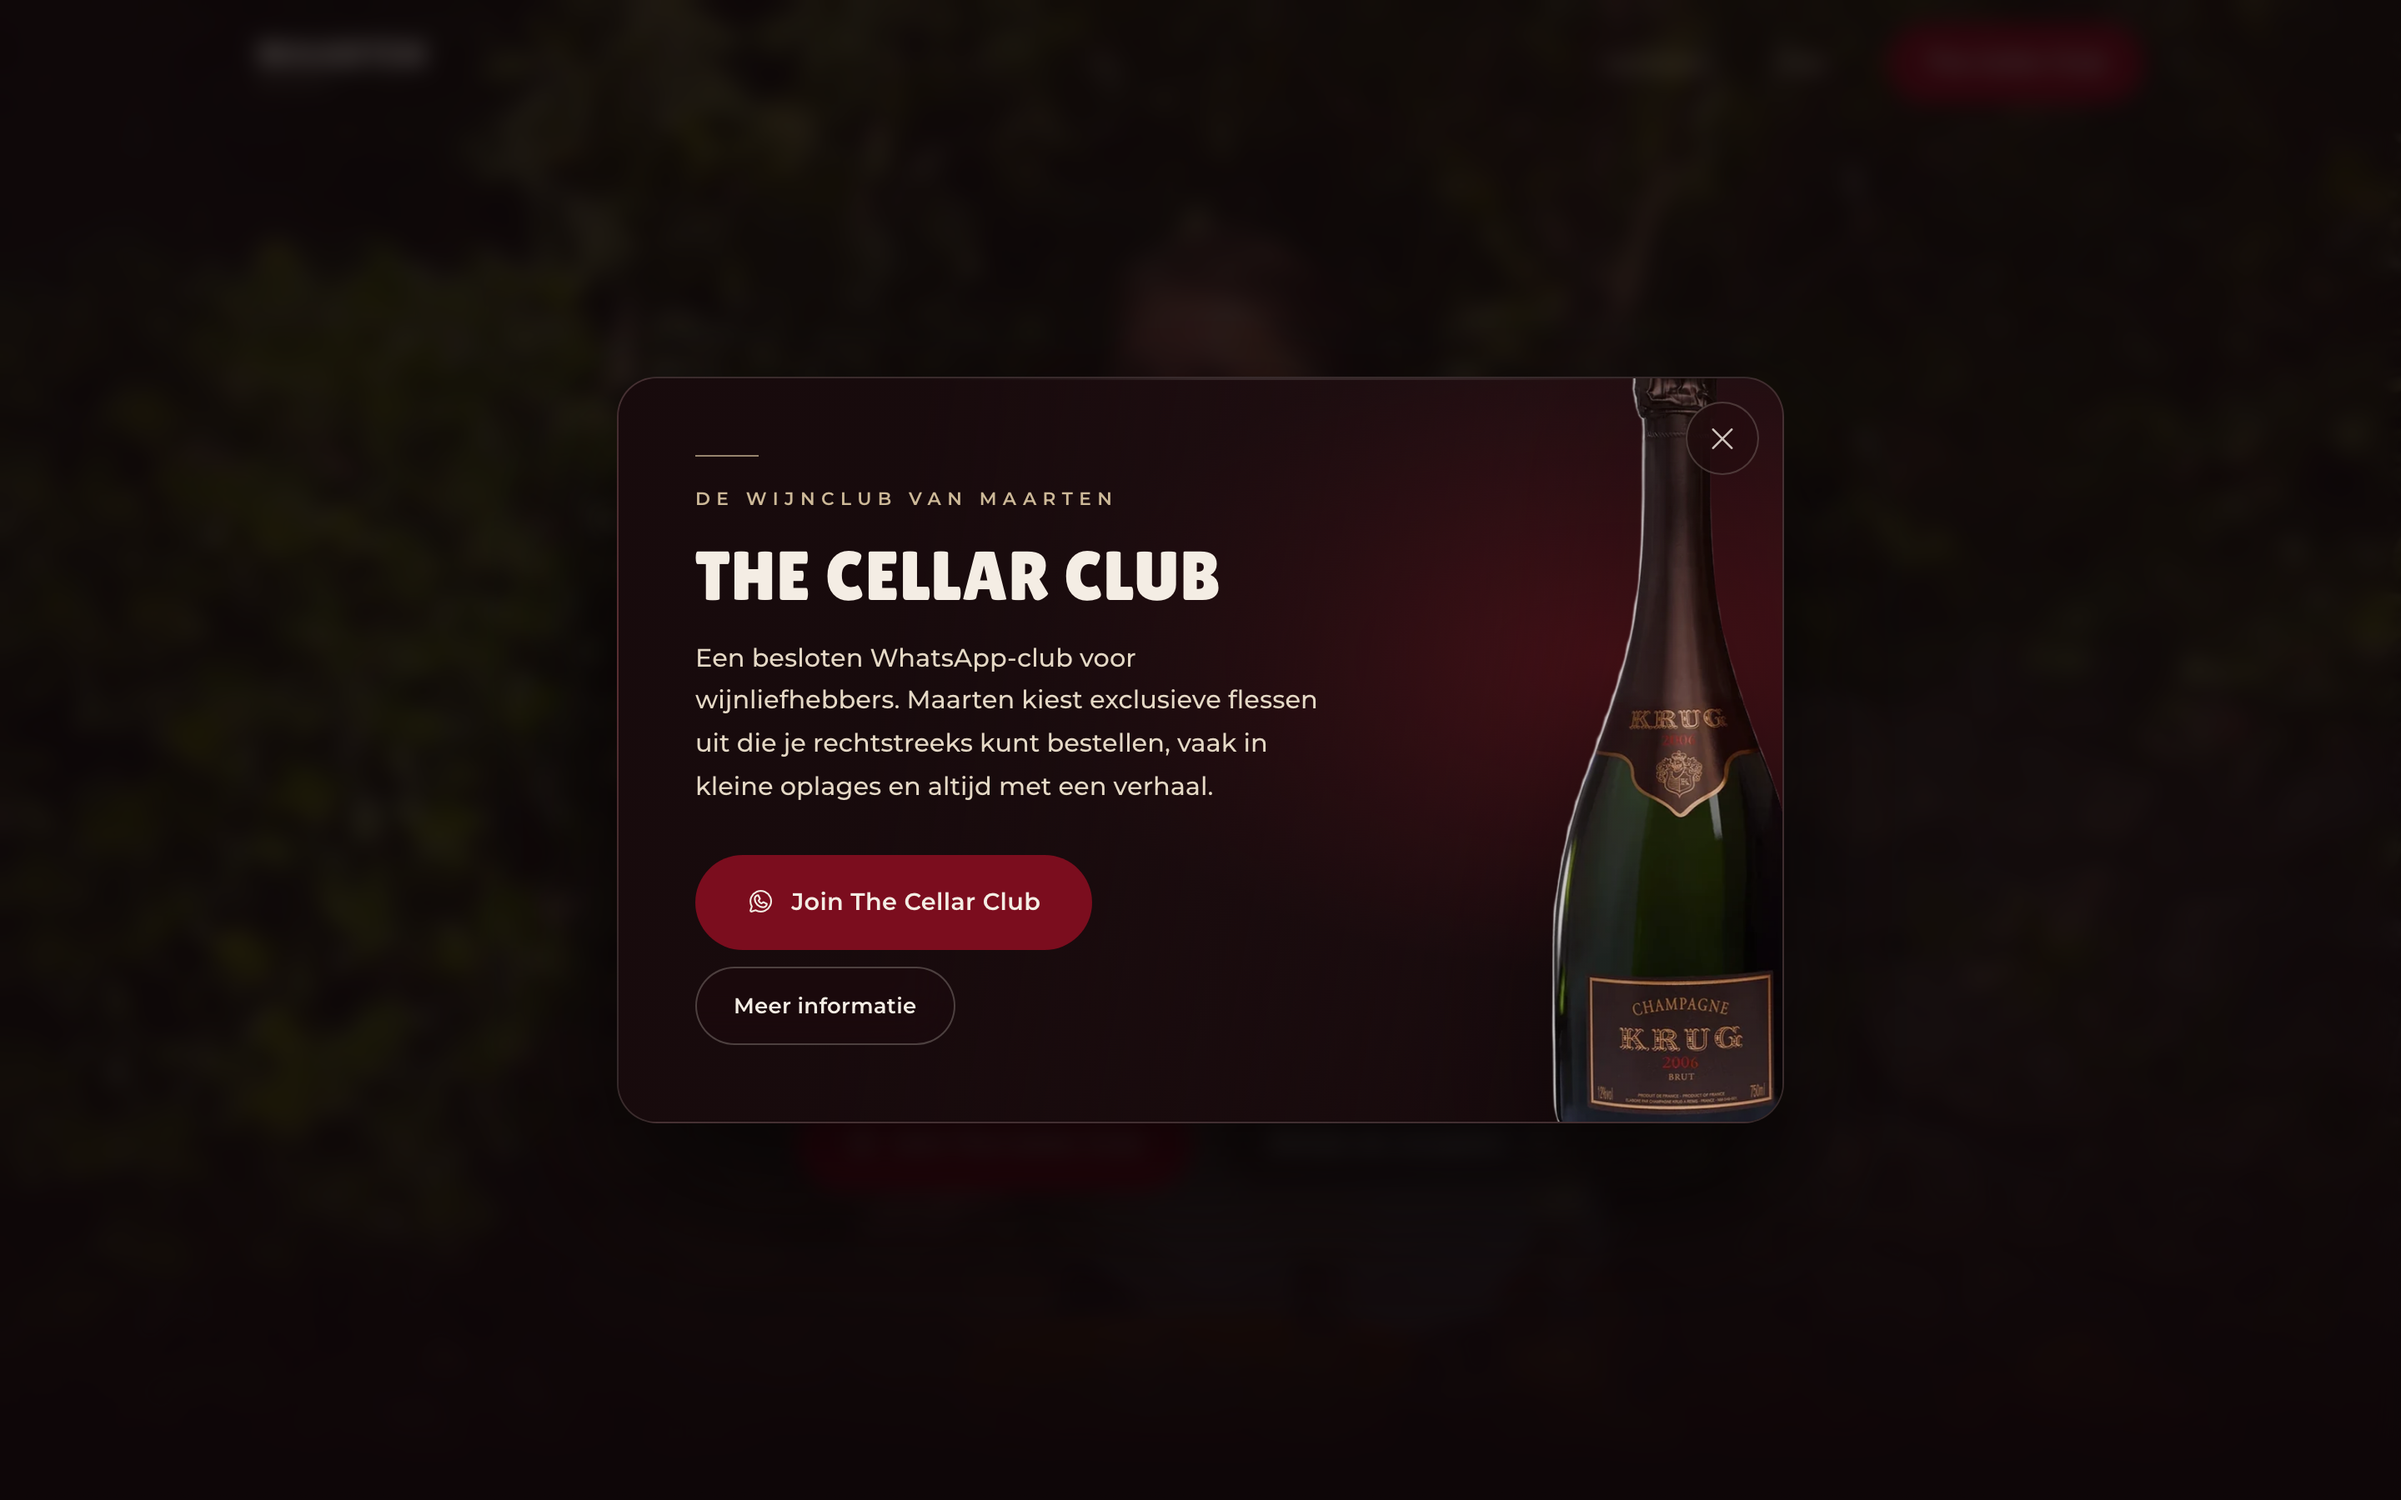
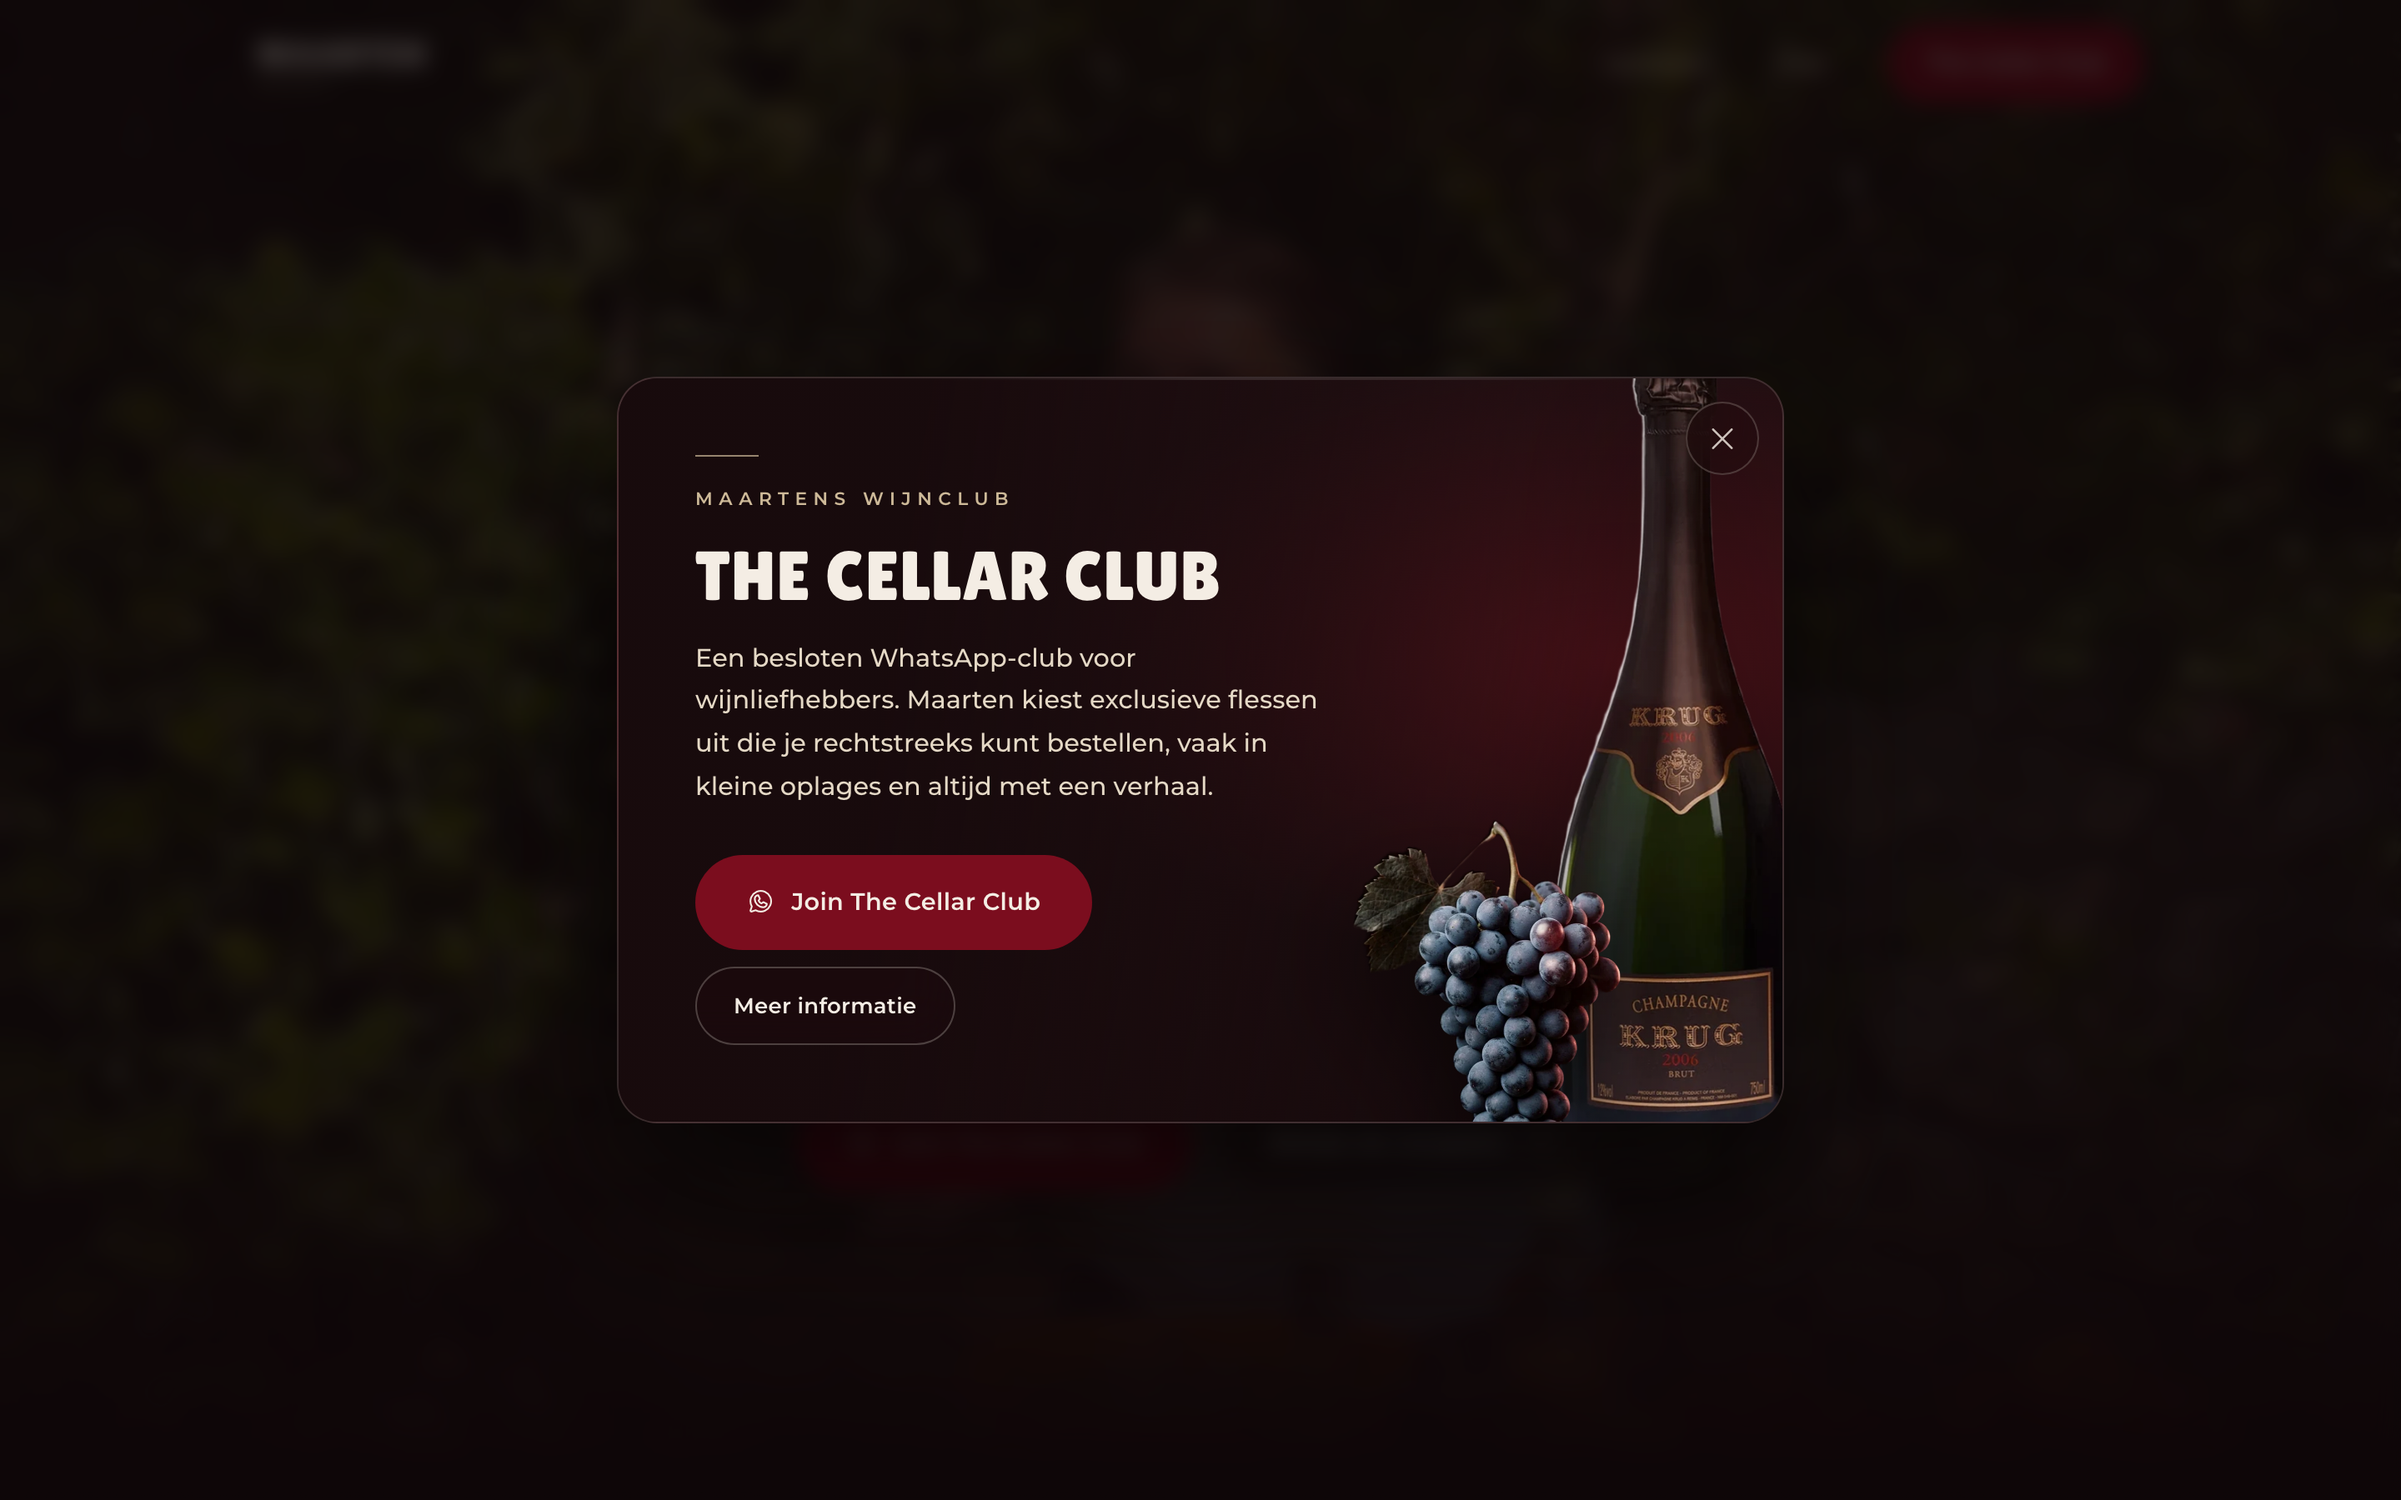
Druiventros in de pop-up, gemaakt in de light-painting-stijl van het merk
De bestaande druiven in het thema zijn stills uit Maartens video: mat en vlak,
te weinig voor dit paneel. Nieuwe tros met Higgsfield (nano_banana_pro, 3:4)
in dezelfde donkere light-painting-stijl als de rest van het merkbeeld:
blauw-paars met bloom, een rode druif als accent, bordeaux zijlicht op zwart.
Uitgesneden via remove_background, alpha getrimd, 800px webp van 68 KB.

Staat naast de fles en niet eroverheen, zodat het Krug-etiket vrij blijft:
fles achter, tros ervoor aan de voet. Zelfde bottle-float-animatie met een
eigen fase, dus ze bewegen niet synchroon. Onder 640px verborgen — fles plus
tros achter de tekst wordt daar te druk.

Kosten: twee Higgsfield-jobs, saldo stond op 237,93 vooraf.

diff --git a/shopify-theme/assets/theme.css b/shopify-theme/assets/theme.css
@@ -1803,6 +1803,20 @@ html.lenis, html.lenis body { height: auto; }
   animation: bottle-float 10s ease-in-out infinite alternate;
   will-change: transform;
 }
+/* Druiventros aan de voet van de fles. Staat ná de scrim in de DOM, dus hij
+   blijft vol zichtbaar waar de scrim de fles juist dempt. Zelfde zweef-animatie
+   als de flessen, met een eigen fase zodat ze niet synchroon bewegen. */
+.cc-pop-grapes {
+  position: absolute; z-index: 2; pointer-events: none;
+  /* Naast de fles, niet eroverheen: het Krug-etiket blijft vrij */
+  width: 23%; height: auto; right: 14%; bottom: -7%;
+  transform: rotate(-5deg);
+  filter: saturate(0.96) drop-shadow(0 26px 34px rgba(0, 0, 0, 0.6));
+  animation: bottle-float 11s ease-in-out infinite alternate;
+  animation-delay: -5s;
+  will-change: transform;
+}
+
 /* Scrim tussen fles en tekst: de fles lost op in het paneel in plaats van erop
    te liggen. Moet boven de fles staan (z-index 2), anders leest de tekst slecht. */
 .cc-pop-inner::before {
@@ -1840,6 +1854,8 @@ h2.cc-pop-title { font-size: clamp(1.85rem, 5.2vw, 2.6rem); margin-top: 16px; }
   /* Fles zakt naar de onderhoek, half buiten beeld — precies zoals in de hero.
      Gedempt, want hier loopt de tekst er wél overheen; de scrim doet de rest. */
   .cc-pop-bottle { height: auto; width: 54%; top: auto; bottom: -8%; right: -13%; opacity: 0.44; }
+  /* Op deze breedte is fles + tros samen te druk achter de tekst: alleen de fles */
+  .cc-pop-grapes { display: none; }
   .cc-pop-inner::before {
     background: linear-gradient(168deg, rgba(23, 10, 12, 0.94) 46%, rgba(23, 10, 12, 0.62) 76%, rgba(23, 10, 12, 0.15) 100%);
   }

diff --git a/shopify-theme/preview-cellar-popup.html b/shopify-theme/preview-cellar-popup.html
@@ -30,8 +30,9 @@
       <i class="ph ph-x" aria-hidden="true"></i>
     </button>
     <img class="cc-pop-bottle" src="assets/cellar-fles-krug.webp" width="337" height="1100" alt="" loading="lazy">
+    <img class="cc-pop-grapes" src="assets/cellar-druiven-pop.webp" width="586" height="800" alt="" loading="lazy">
     <div class="cc-pop-body">
-      <span class="cc-pop-kicker">De wijnclub van Maarten</span>
+      <span class="cc-pop-kicker">Maartens wijnclub</span>
       <h2 class="display cc-pop-title" id="CellarPopupTitle">The Cellar Club</h2>
       <p class="cc-pop-text">Een besloten WhatsApp-club voor wijnliefhebbers. Maarten kiest exclusieve flessen uit die je rechtstreeks kunt bestellen, vaak in kleine oplages en altijd met een verhaal.</p>
       <div class="cc-pop-row">
